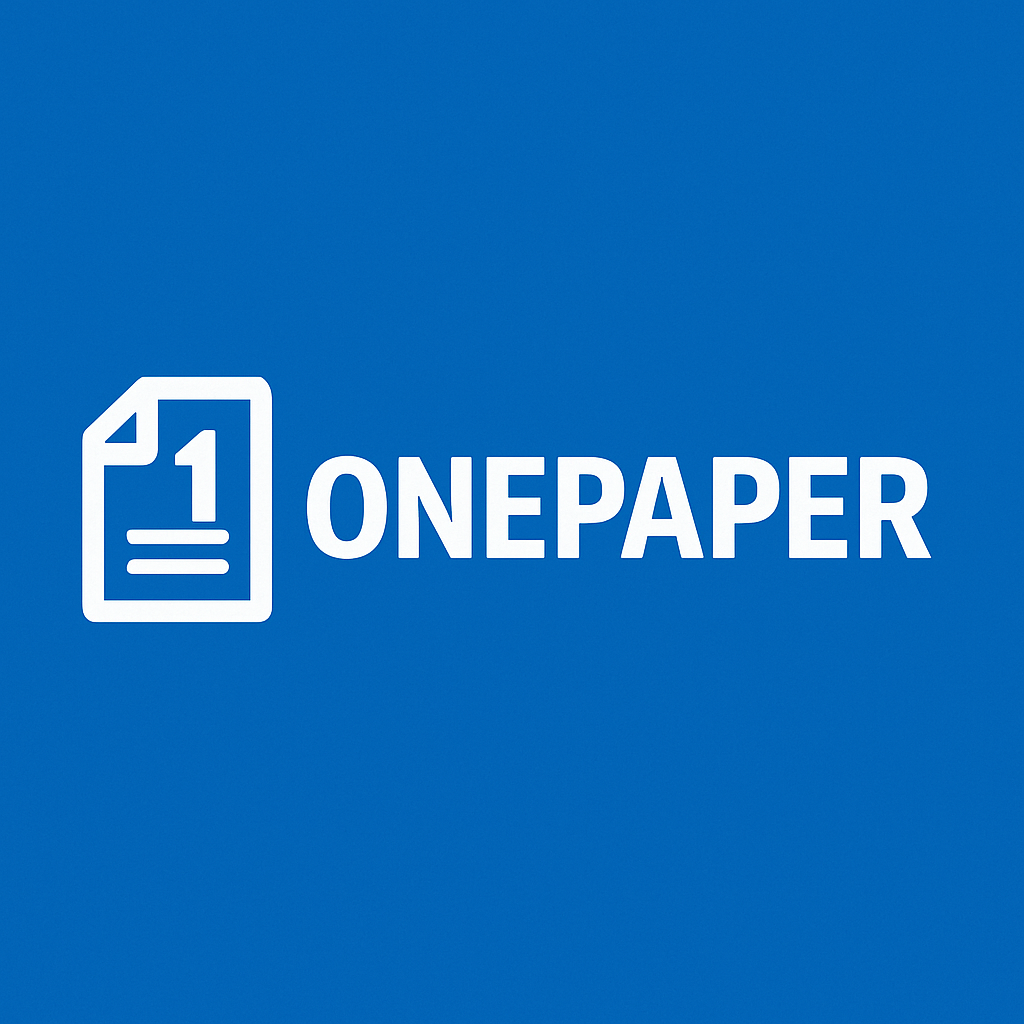
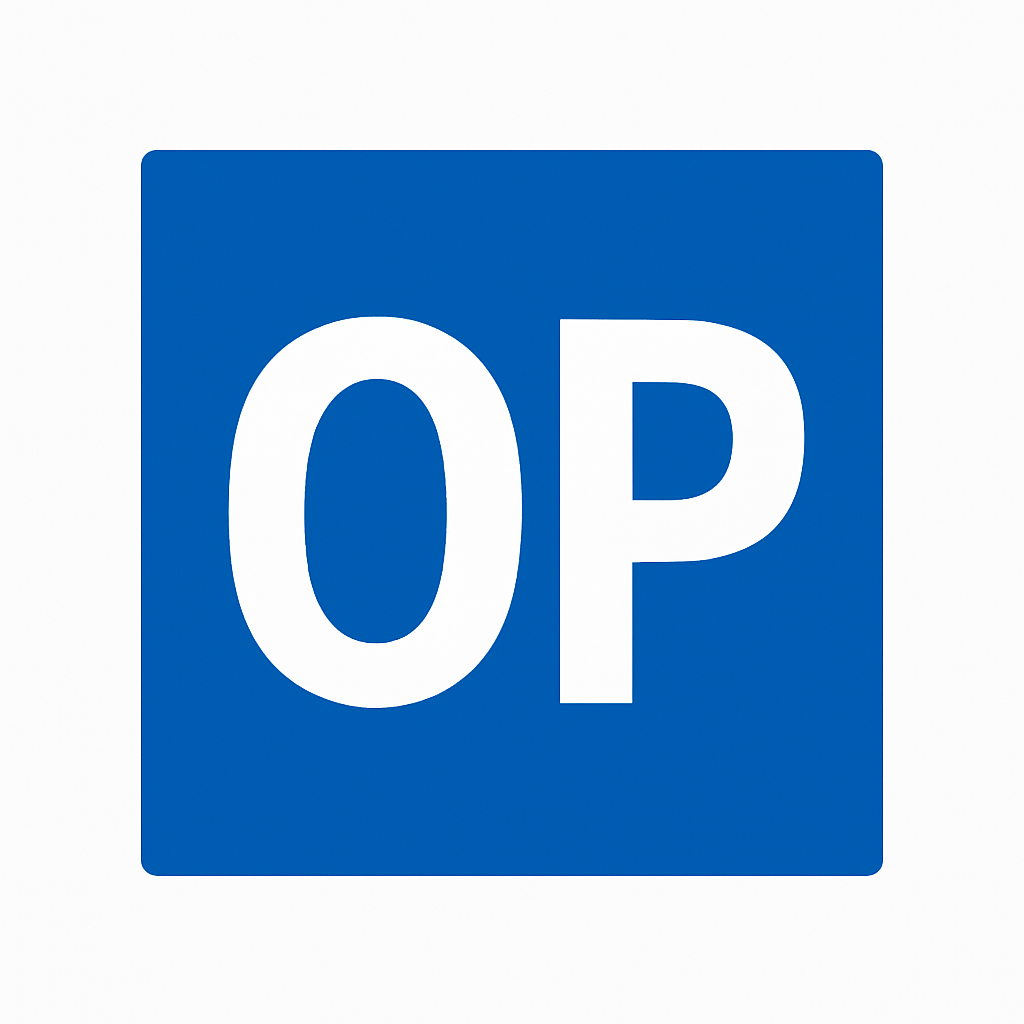
final commit

diff --git a/app/layout.tsx b/app/layout.tsx
@@ -35,7 +35,20 @@ export default function RootLayout({
     <html lang="en">
 
       <head>
-        <link rel="icon" href="/onepaper.png" type="image/png" />
+
+        {/* <link rel="icon" href="/onepaper.png" type="image/png" /> */}
+
+
+
+        {/* Favicon and logo metadata */}
+        <link rel="icon" href="/onepaper.png" sizes="48x48" type="image/png" />
+        <link rel="apple-touch-icon" href="/onepaper.png" />
+        <link rel="shortcut icon" href="/onepaper.png" />
+        <link rel="manifest" href="/site.webmanifest" />
+        <meta name="theme-color" content="#ffffff" />
+
+
+
 
 
         <script async src="https://pagead2.googlesyndication.com/pagead/js/adsbygoogle.js?client=ca-pub-4332720109955132"

diff --git a/lib/topics.ts b/lib/topics.ts
@@ -30,7 +30,8 @@ export const categoryTopics: Record<string, string[]> = {
         // "Geography of the World"
     ],
     "current-affairs": [
-        "Pakistan Current Affairs – November 2024"
+
+        "Pakistan Current Affairs MCQs November 2024"
 
         // "Pakistan Current Affairs",
         // "International Events",
